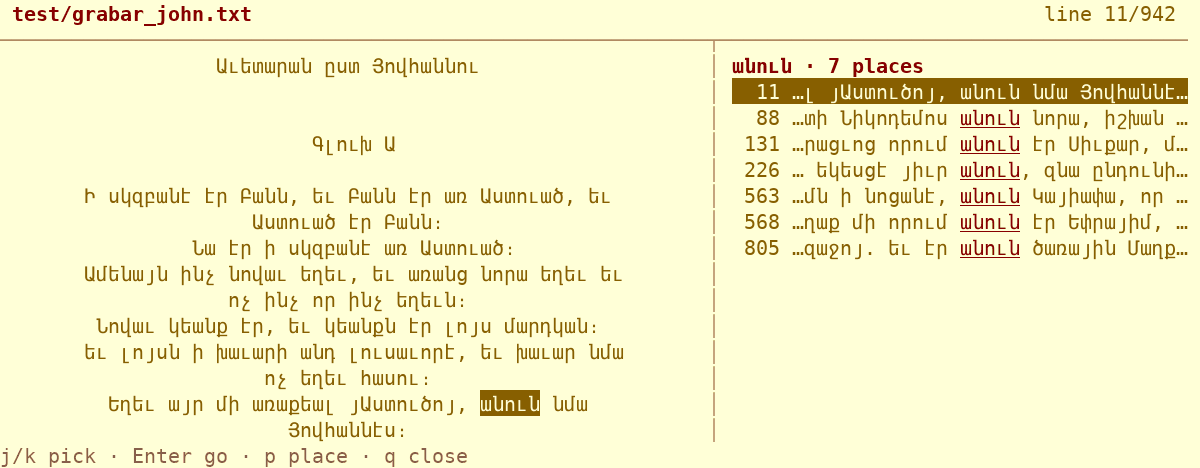
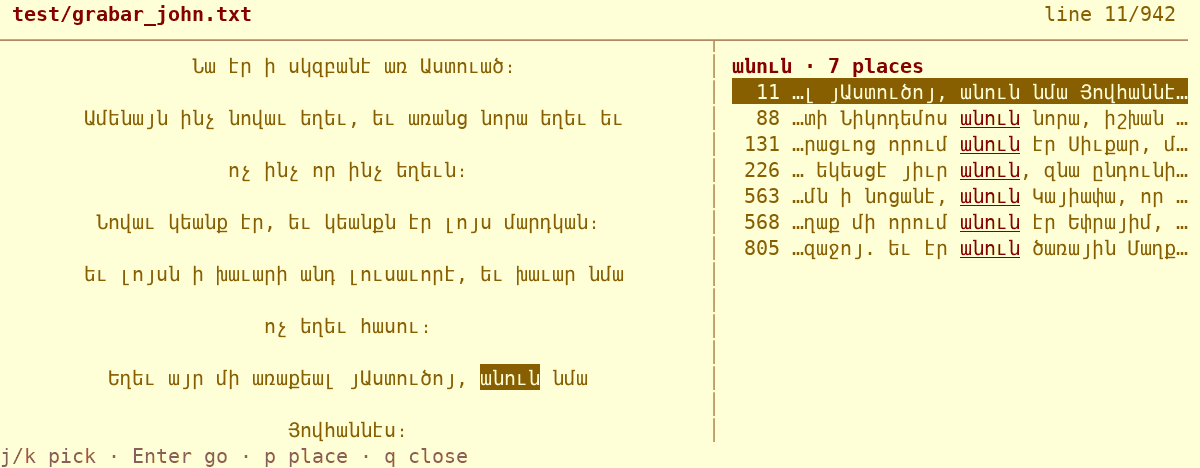
Double-space the reader text; L changes line spacing
A terminal cannot change its line height, so the reader
leaves empty rows between lines of text: one by default
(double spacing). L steps double, triple, single; the choice
is saved with the other settings. Paging and scrolling count
lines of text, not screen rows. Screenshots regenerated.

Claude-Session: https://claude.ai/code/session_01MmoF2qyxoB4D2nBrMMMzFR

diff --git a/scripts/nxgir_reader.py b/scripts/nxgir_reader.py
@@ -180,6 +180,21 @@ def first_from(words, row):
 TEXT_MAX = 70  # widest text column, for easy reading
 MARGIN = 0.10  # empty space left and right of the text
 ALIGNS = ("center", "left")
+# empty screen rows between lines of text, in the
+# order L steps through them (first = default)
+SPACINGS = (1, 2, 0)
+SPACING_NAMES = {
+    0: "line spacing: single",
+    1: "line spacing: double",
+    2: "line spacing: triple",
+}
+
+
+def visible_rows(height, gap):
+    """Text rows that fit in height screen rows when
+    each is followed by gap empty rows (the last
+    row's gap may be cut off)."""
+    return max((height + gap) // (gap + 1), 1)
 
 
 def margin(box_w):
@@ -331,6 +346,7 @@ KEYS = {
     "s": "refs",
     "p": "place",
     "c": "align",
+    "L": "spacing",
     "T": "theme",
     "d": "dim",
     "m": "mark",
@@ -443,12 +459,15 @@ class Reader:
         self.saved = 0  # cursor before the panel
         self.mode = "auto"  # panel place, see MODES
         self.align = "center"  # see ALIGNS
+        self.spacing = SPACINGS[0]  # empty rows per line
         if state:
             st = state.settings
             if st.get("mode") in MODES:
                 self.mode = st["mode"]
             if st.get("align") in ALIGNS:
                 self.align = st["align"]
+            if st.get("spacing") in SPACINGS:
+                self.spacing = st["spacing"]
         self.saved_theme = style.name  # before T
         self.box_w = 0  # width of the text box
 
@@ -497,7 +516,7 @@ class Reader:
         tb, pb, side = self.boxes()
         self.box_w = tb.w
         self.relayout(tb.w)
-        self.follow(tb.h)
+        self.follow(self.rows(tb))
         words = self.lay.words
         win.erase()
 
@@ -531,15 +550,20 @@ class Reader:
         self.msg = ""
         win.refresh()
 
+    def rows(self, box):
+        """Text rows that fit in the text box."""
+        return visible_rows(box.h, self.spacing)
+
     def draw_text(self, box):
         win = self.win
         right = box.x + box.w
-        bottom = self.top + box.h
+        step = self.spacing + 1  # screen rows per line
+        bottom = self.top + self.rows(box)
         for i, text in enumerate(
             self.lay.rows[self.top : bottom]
         ):
             x = box.x + self.indent(self.top + i)
-            put(win, box.y + i, x, text, 0, right)
+            put(win, box.y + i * step, x, text, 0, right)
         words = self.lay.words
         if not words:
             return
@@ -557,7 +581,7 @@ class Reader:
             elif self.refs_open() and wd.key == key:
                 attr = style("mark")
             if attr:
-                y = box.y + wd.row - self.top
+                y = box.y + (wd.row - self.top) * step
                 x = box.x + self.indent(wd.row) + wd.col
                 put(win, y, x, wd.text, attr, right)
 
@@ -636,7 +660,7 @@ class Reader:
     def key_text(self, action):
         """Handle a key while reading. False = leave."""
         words = self.lay.words
-        rows = self.boxes()[0].h
+        rows = self.rows(self.boxes()[0])
         total = len(self.lay.rows)
         if action == "quit":
             self.remember()
@@ -652,6 +676,9 @@ class Reader:
             return True
         if action == "align":
             self.next_align()
+            return True
+        if action == "spacing":
+            self.next_spacing()
             return True
         if action == "dim":
             self.msg = style.next_dim(self.win)
@@ -709,6 +736,11 @@ class Reader:
             self.saved = self.cur
         return True
 
+    def next_spacing(self):
+        i = SPACINGS.index(self.spacing)
+        self.spacing = SPACINGS[(i + 1) % len(SPACINGS)]
+        self.msg = SPACING_NAMES[self.spacing]
+
     def next_align(self):
         i = ALIGNS.index(self.align)
         self.align = ALIGNS[(i + 1) % len(ALIGNS)]
@@ -760,6 +792,8 @@ class Reader:
             self.next_mode()
         elif action == "align":
             self.next_align()
+        elif action == "spacing":
+            self.next_spacing()
         elif action == "dim":
             self.msg = style.next_dim(self.win)
             return
@@ -807,6 +841,7 @@ class Reader:
         st.settings.update(
             mode=self.mode,
             align=self.align,
+            spacing=self.spacing,
             theme=style.wanted,
             dim=style.dim,
         )

diff --git a/tests/test_reader.py b/tests/test_reader.py
@@ -12,6 +12,7 @@ from nxgir_reader import (
     split,
     text_width,
     vertical,
+    visible_rows,
 )
 
 JOHN = (
@@ -221,3 +222,15 @@ def test_vertical_uses_screen_columns():
     assert words[j].text == "բբբ"
     # left-aligned: "դ" is under the first word
     assert words[vertical(words, 3, -1)].text == "աաա"
+
+
+def test_visible_rows():
+    # single spacing: one text row per screen row
+    assert visible_rows(10, 0) == 10
+    # double: rows 0, 2, 4, 6, 8 (the last gap is cut)
+    assert visible_rows(10, 1) == 5
+    assert visible_rows(9, 1) == 5
+    # triple: rows 0, 3, 6, 9
+    assert visible_rows(10, 2) == 4
+    assert visible_rows(1, 2) == 1
+    assert visible_rows(0, 1) == 1

diff --git a/scripts/nxgir_state.py b/scripts/nxgir_state.py
@@ -19,6 +19,7 @@ SETTINGS = {
     "dim": 0,
     "align": "center",
     "mode": "auto",
+    "spacing": 1,
 }
 
 

diff --git a/README.md b/README.md
@@ -97,7 +97,9 @@ The text wraps to the screen and re-wraps when the
 window size changes. Lines are centered, in a column at
 most 70 characters wide in the middle of the screen, with
 an empty margin of 10% of the width on the left and right.
-One word is under the cursor.
+Lines are double-spaced (an empty row between them),
+since a terminal can't change its own line height. One
+word is under the cursor.
 
 | Key | Action |
 |-----|--------|
@@ -110,6 +112,7 @@ One word is under the cursor.
 | `s` | references: every place the word appears |
 | `p` | panel place: auto, always below, always beside |
 | `c` | lines centered (default) or left-aligned |
+| `L` | line spacing: double (default) → triple → single |
 | `T` | choose a theme (`j`/`k` try it on the page, `Enter` keep, `q` cancel) |
 | `d` | dim the text: normal → dim → dimmer (also in the bookshelf) |
 | `m` | bookmark the word (again to remove); `*` in the top line marks it |
@@ -133,7 +136,8 @@ rotated. Matching ignores case and the marks
 The reader remembers where you stopped in each book and
 opens it there next time; the bookshelf shows how far
 you've read (`37%`). Bookmarks, the theme, the dim level,
-centering and the panel place are remembered too. All of
+centering, line spacing and the panel place are
+remembered too. All of
 it is kept in `~/.local/state/nxgir/state.json` on your
 device (not in the repo); set `NXGIR_STATE` to use
 another file. If the file is damaged, nxgir starts fresh
